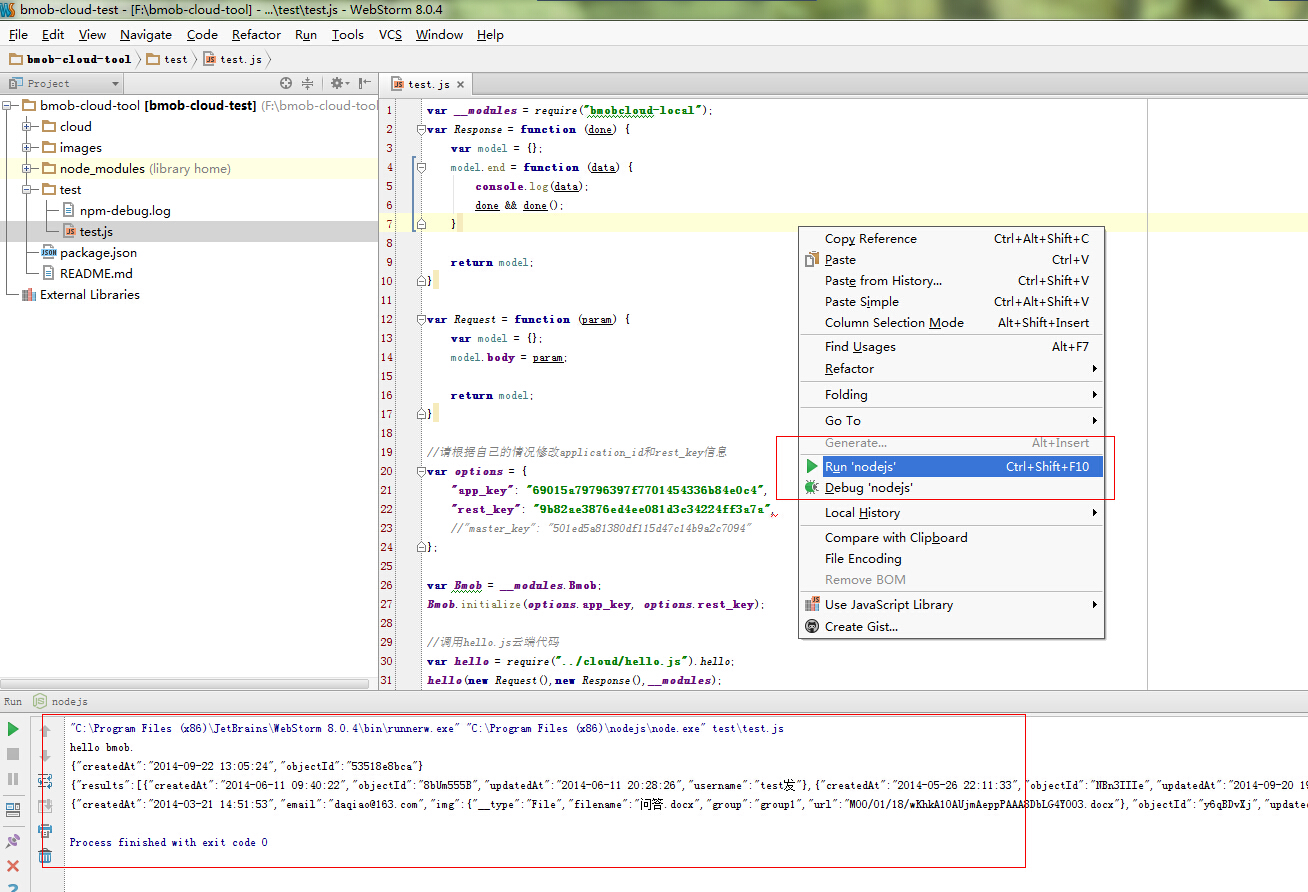
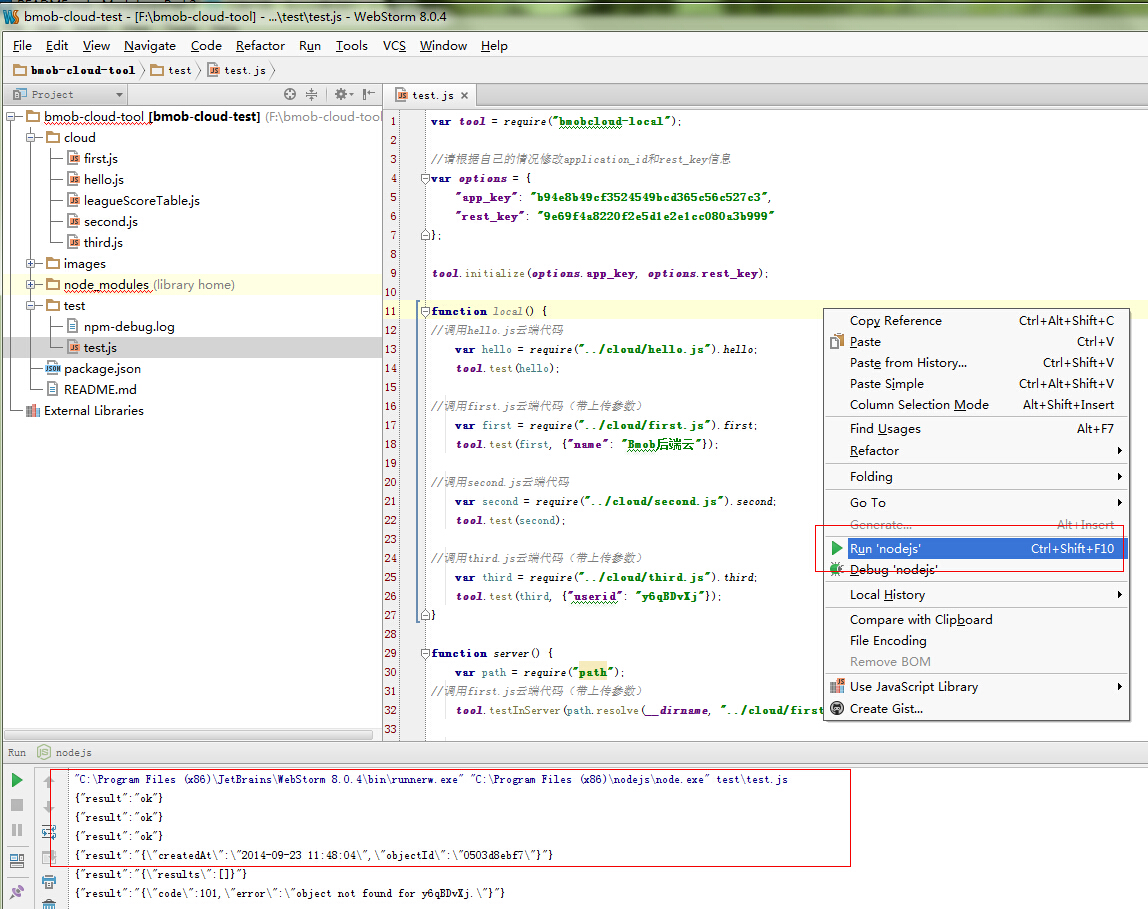
更新说明文档

Changed region(s): [[0.0, 0.0, 1.0, 1.0]]

diff --git a/test/test.js b/test/test.js
@@ -2,8 +2,8 @@ var tool = require("bmobcloud-local");
 
 //请根据自己的情况修改application_id和rest_key信息
 var options = {
-    "app_key": "69015a79796397f7701454336b84e0c4",
-    "rest_key": "9b82ae3876ed4ee081d3c34224ff3a7a"
+    "app_key": "b94e8b49cf3524549bcd365c56c527c3",
+    "rest_key": "9e69f4a8220f2e5d1e2e1cc080a3b999"
 };
 
 tool.initialize(options.app_key, options.rest_key);
@@ -45,5 +45,5 @@ function relation() {
 }
 
 //local();
-//server();
-relation();
+server();
+//relation();

diff --git a/README.md b/README.md
@@ -13,7 +13,7 @@ Bmob云端代码本地调试工具
 
 1. 进入Repo的cloud文件夹，编写相应的云端代码（可参考我们提供的demo）。
 
-2. 根据自己的APP信息，修改test文件夹下的`test.js`的`application_id`和`rest_key`信息。
+2. 根据自己的APP信息，修改test文件夹下的`test.js`的`app_key`和`rest_key`信息。
 
 ## 命令行调试
 
@@ -44,3 +44,8 @@ Bmob云端代码本地调试工具
 
 
 ![](images/debug.jpg)
+
+## 本地和云端代码的同步
+
+本工具提供了两种方式进行云端代码的调试：本地调试和服务端调试，分别对应于test.js脚本里的`local()`和`server()`方法。它们的区别主要在于云端代码的运行端，服务端调试会将本地代码同步到Bmob云端中去执行，而本地调试只是在本地执行。一般而言，大家可以先用本地调试的方法先把代码调好，然后再调用服务端调试的方法，一键同步本地代码到Bmob云端执行。
+
